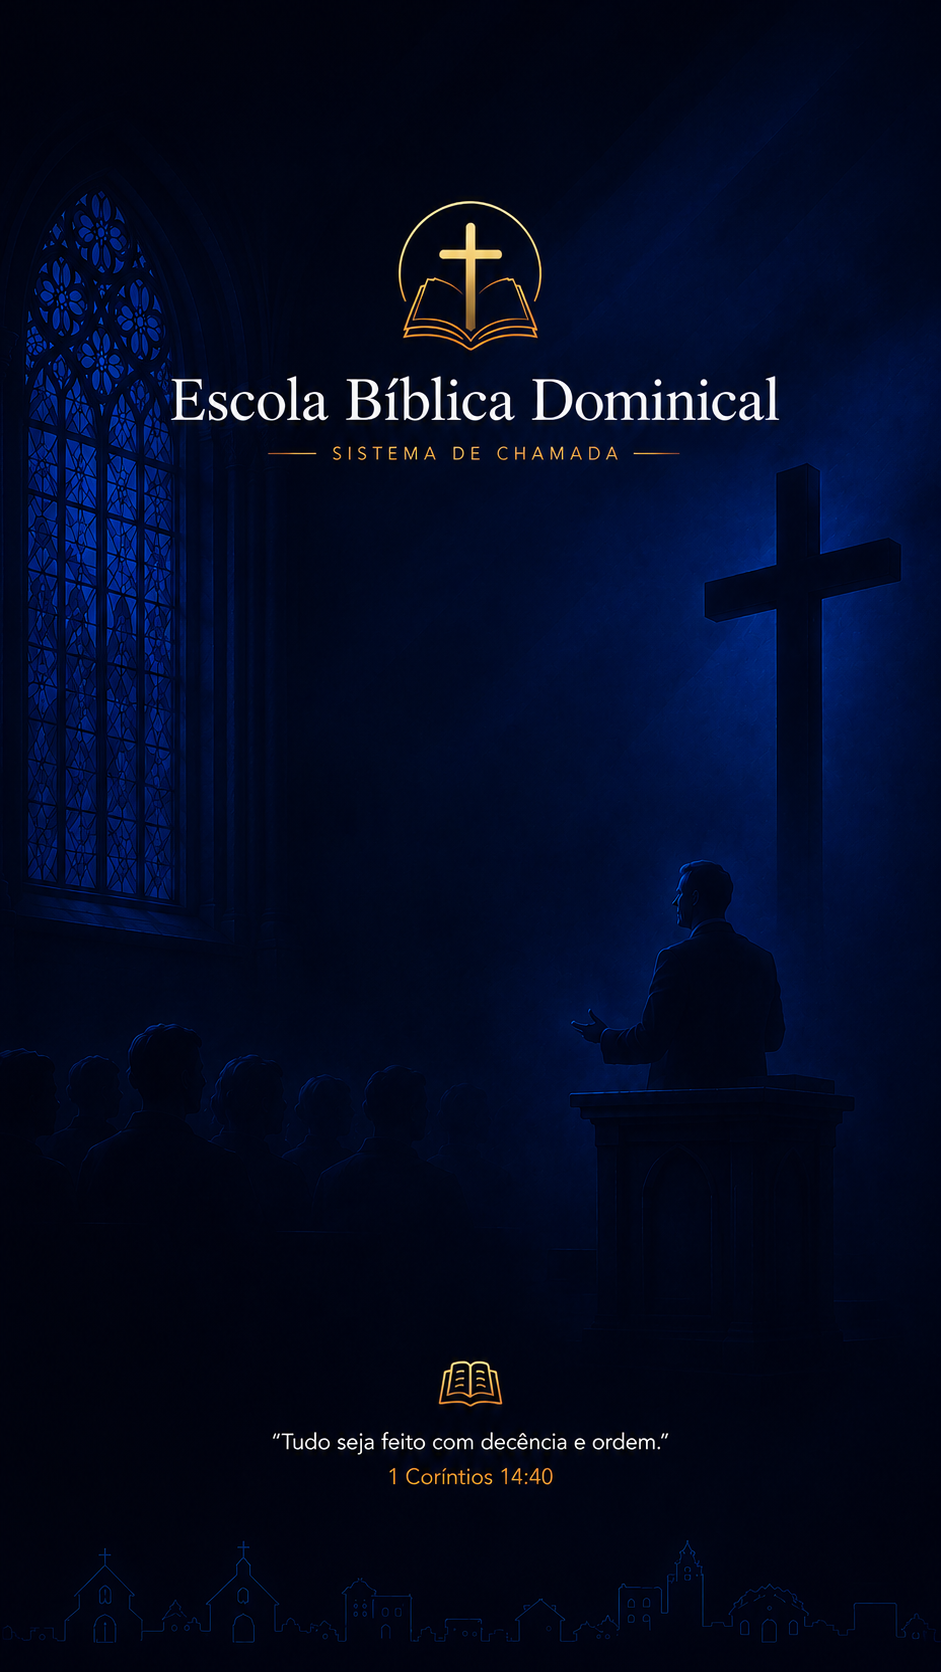
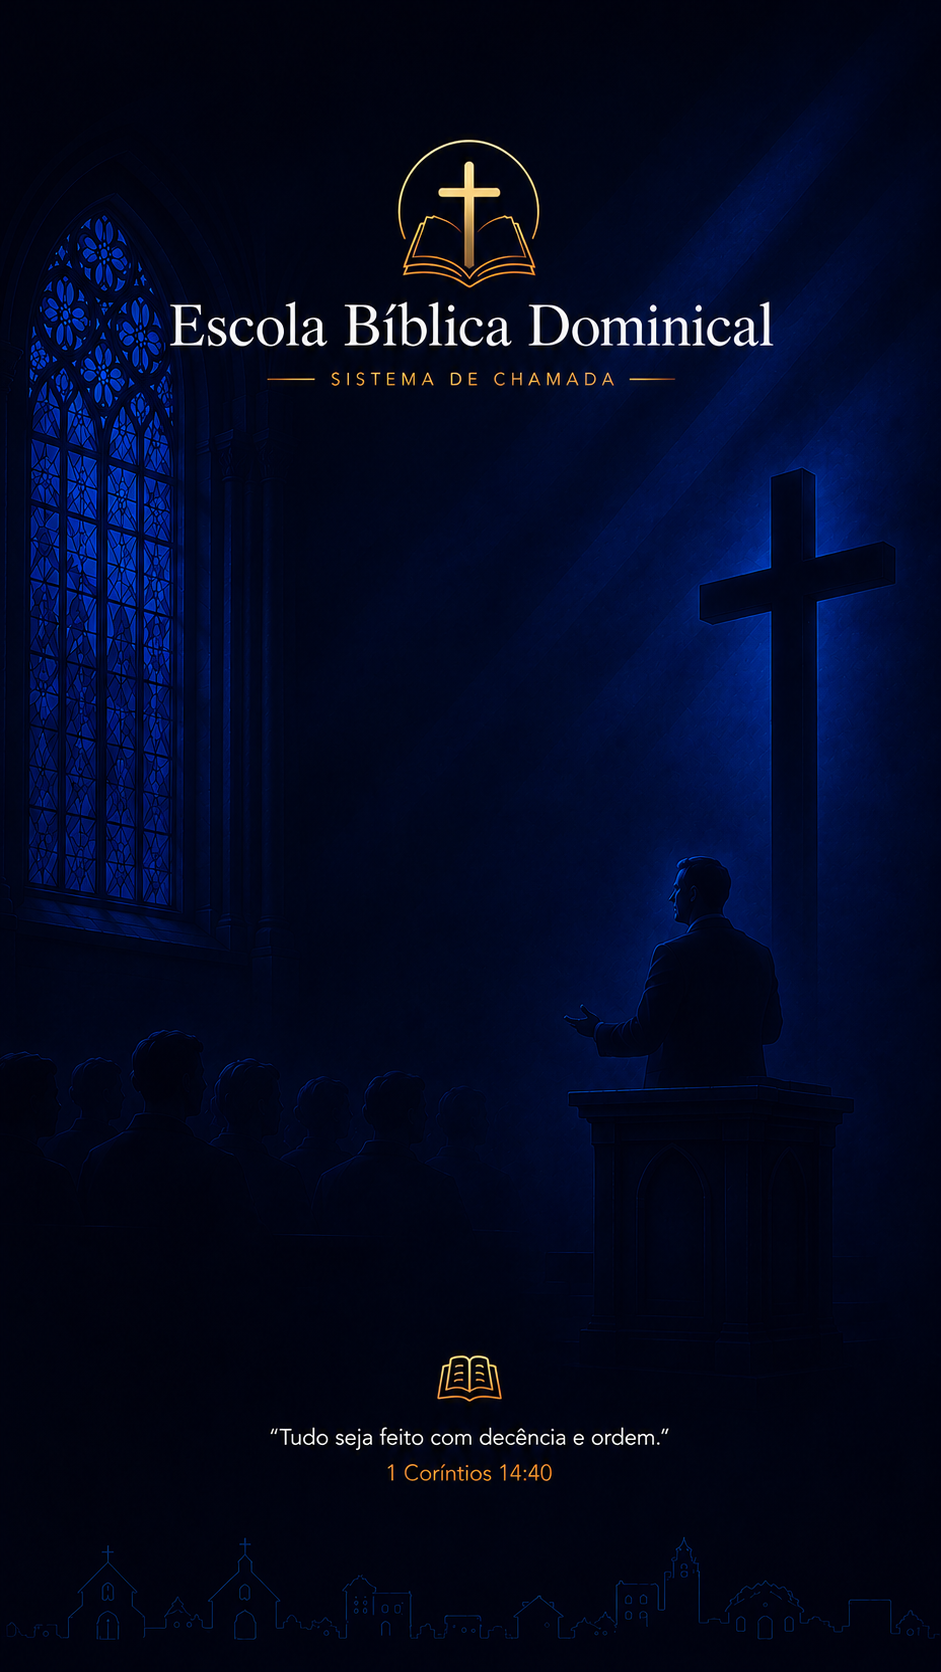
fix: nova imagem mobile, card centralizado e efeito vidro no celular

diff --git a/src/index.css b/src/index.css
@@ -19,6 +19,12 @@
   }
 
   .login-card-wrapper {
-    padding-top: 42vh !important;
+    padding-top: 0 !important;
+  }
+
+  .login-card {
+    -webkit-backdrop-filter: blur(14px);
+    backdrop-filter: blur(14px);
+    background: rgba(8, 18, 55, 0.60) !important;
   }
 }

diff --git a/src/pages/Login.jsx b/src/pages/Login.jsx
@@ -24,8 +24,8 @@ export default function Login() {
       <div className="login-card-wrapper flex flex-1 items-center justify-center" style={{ paddingTop: '8vh' }}>
       <div className="w-full max-w-sm mx-4">
         <div
-          className="rounded-2xl p-8 shadow-2xl border border-white/10"
-          style={{ background: 'rgba(8,18,55,0.72)', backdropFilter: 'blur(14px)' }}
+          className="login-card rounded-2xl p-8 shadow-2xl border border-white/10"
+          style={{ background: 'rgba(8,18,55,0.72)', backdropFilter: 'blur(14px)', WebkitBackdropFilter: 'blur(14px)' }}
         >
           <div className="text-center mb-6">
             <h2 className="text-white font-bold text-xl">Acesse sua conta</h2>